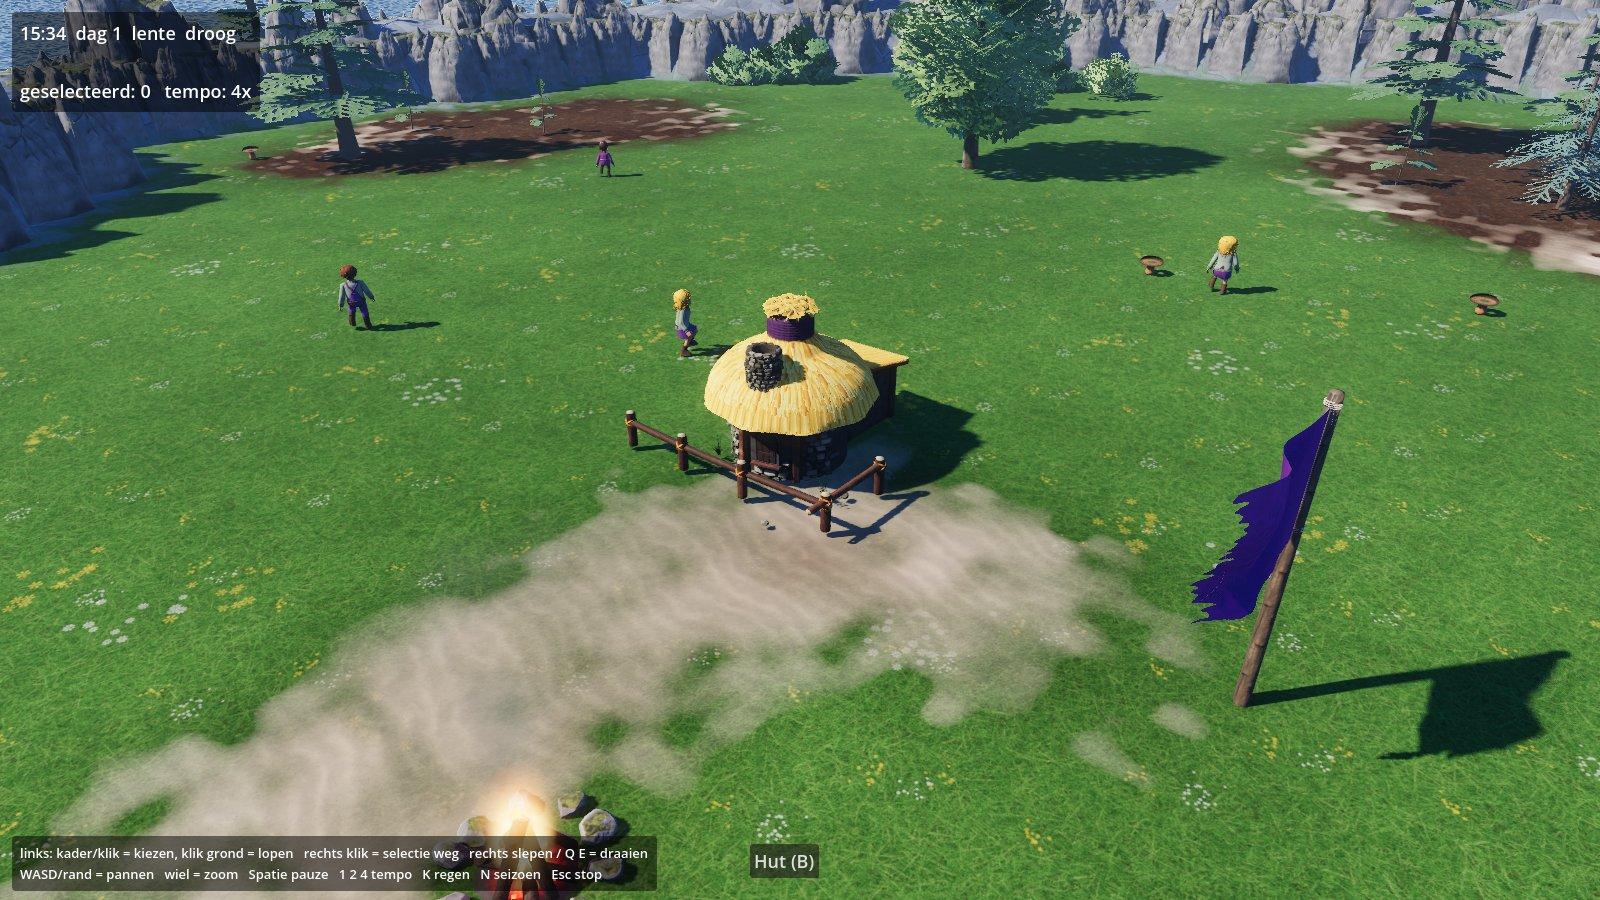
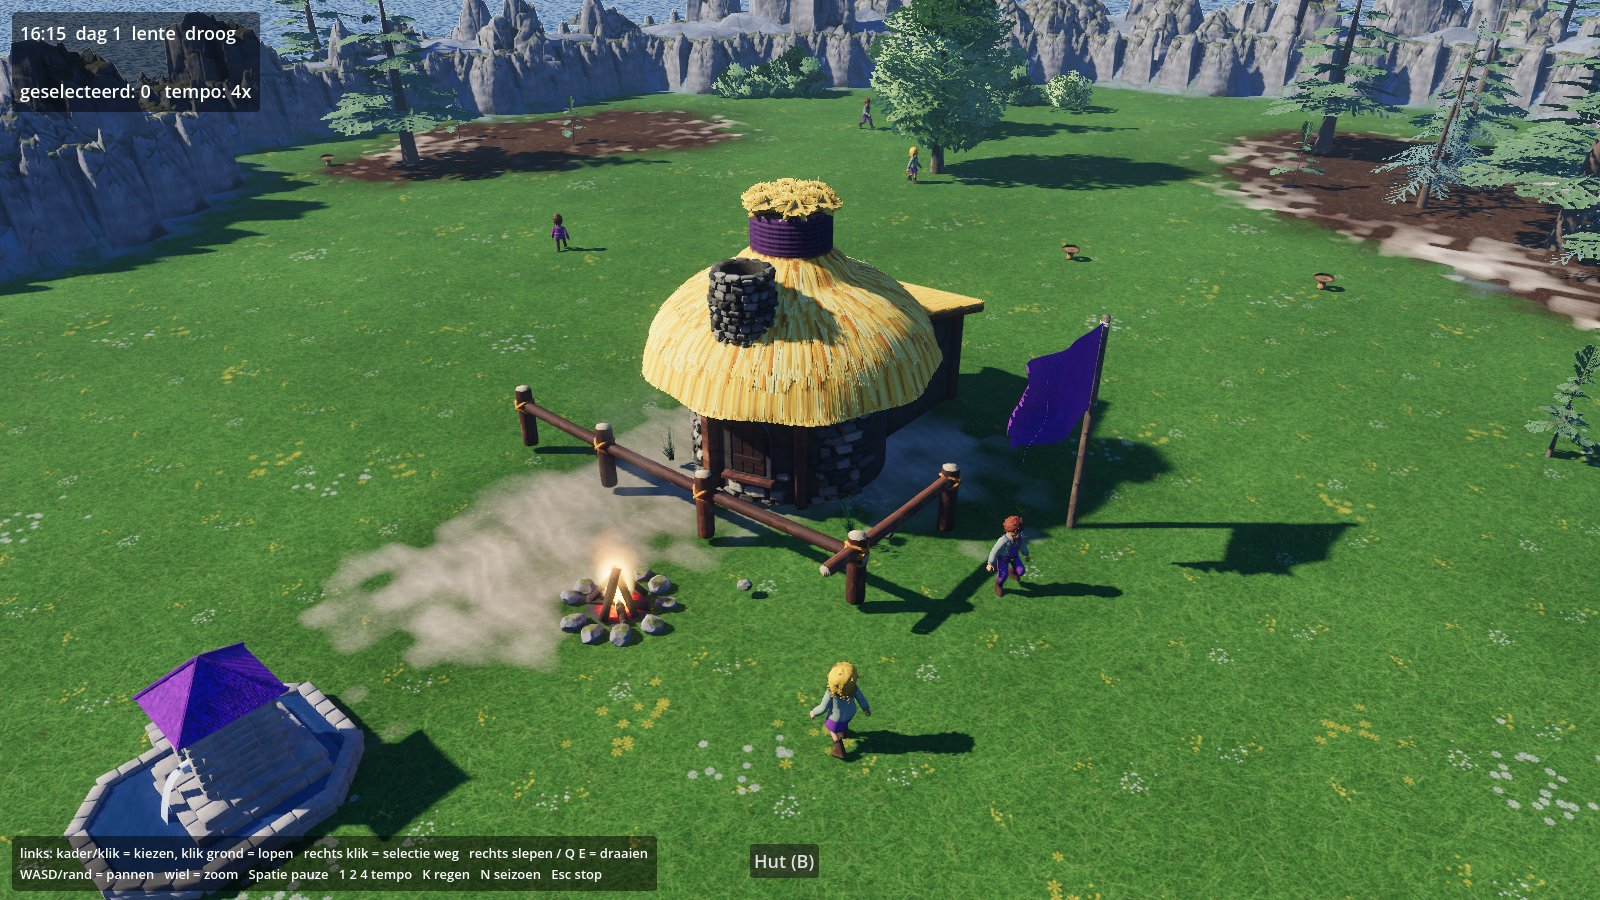
Beasts & Bumpkins-remake: hut geschaald op de voordeur (1,15x volwassene), voetafdruk 4x4
Claude-Session: https://claude.ai/code/session_0151pWCWHCzH6TWJgc2h9cMZ

diff --git a/TODO.md b/TODO.md
@@ -7,7 +7,7 @@ want die kunnen alleen op een telefoon of emulator opgenomen worden.
 
 Beasts & Bumpkins-remake (`docs/beasts-bumpkins-remake/`, stand in de README daar; originele data lokaal in `lokaal/`, niet in git):
 
-1. **Spellogica missie 1** in `spel/sim/`: economie, werk, bouwen, koe-generator (object 171), winnen bij 6 dorpelingen + 4 koeien, verliezen onder 2 — naar `missies.md` en `gameplay.md` §7. Bouwen staat (2026-10-29, `view/bouwmenu.gd` + `Plan` in `sim/`): menu/ghost, selectie + klik op een plan = bouwbevel, 60 werker-seconden, hamerlus, kist groeit in 4 standen en wordt bruin, voetafdruk blokkeert. Nog open: **houtstapel/steenhoop (modellen bestaan) bij de bouwplaats zetten, plus een zaagclip naast de hamerclip voor de bouwer** (besluit 2026-10-29, nostalgie; concept/modellen zijn er al, alleen de clip en de plaatsing ontbreken; eerst concept voor de hut in 4 standen, zie punt 3). Sinds 2026-10-29 avond: houtstapel/steenhoop staan naast het plan en slinken, klaar = de hut-glb (`--scenario=bouw`). Nog open: **zaagclip naast de hamerclip** (Blender, `bumpkin_basis.py`-acties) en de hut is klein (2x2 incl. hek; voetafdruk of schaal kiezen). Niet door mij gespeeld, alleen headless/frames.
+1. **Spellogica missie 1** in `spel/sim/`: economie, werk, bouwen, koe-generator (object 171), winnen bij 6 dorpelingen + 4 koeien, verliezen onder 2 — naar `missies.md` en `gameplay.md` §7. Bouwen staat (2026-10-29, `view/bouwmenu.gd` + `Plan` in `sim/`): menu/ghost, selectie + klik op een plan = bouwbevel, 60 werker-seconden, hamerlus, kist groeit in 4 standen en wordt bruin, voetafdruk blokkeert. Nog open: **houtstapel/steenhoop (modellen bestaan) bij de bouwplaats zetten, plus een zaagclip naast de hamerclip voor de bouwer** (besluit 2026-10-29, nostalgie; concept/modellen zijn er al, alleen de clip en de plaatsing ontbreken; eerst concept voor de hut in 4 standen, zie punt 3). Sinds 2026-10-29 avond: houtstapel/steenhoop staan naast het plan en slinken, klaar = de hut-glb (`--scenario=bouw`). Nog open: **zaagclip naast de hamerclip** (Blender, `bumpkin_basis.py`-acties) (hut sinds 2026-10-29 op deurmaat: 4x4 tegels). Niet door mij gespeeld, alleen headless/frames.
 2. **Modellen in het spel**: de zes personages staan erin (2026-10-29, `Bumpkin.glb_voor`; sex 13 = jongen, 14 = meisje aangenomen). Nog: loods/molen/melkerij/kippenhok (`modellen/gebouwen/`, wachten op bouwsoorten), koe met `koe_vacht.gdshader`. Eerst het rieten dak van melkerij en kippenhok opnieuw bakken (dakschil niet als bakbron; nu bruin met strepen).
 3. **Conceptronde 3 afmaken** (Chrome eerst herstarten): voetsoldatengilde staat in `lokaal/concept/` (gebruiker moet hem nog beoordelen), dan boogschuttersgilde, stadhuis, brouwerij, draagprops. **Bouwplaats: geen nieuw concept voor stapels, gereedschap of bouwer**: die bestaan al (ronde 2: `dorpsprops` = kampvuur/houtstapel/steenhoop, `bouwgereedschap` = zaag + pikhouweel, ronde 1: `bouwer`; modellen `modellen/natuur/houtstapel.glb`, `steenhoop.glb`). Alleen de **hut in 4 bouwstanden** heeft nog geen concept. Bakkerij = molen, bouwersgilde = gereedschapsloods.
 

diff --git a/docs/beasts-bumpkins-remake/spel/README.md b/docs/beasts-bumpkins-remake/spel/README.md
@@ -62,5 +62,5 @@ texturensets (Texture2DArray, 2,8 m per herhaling) uit de hoekgewichten van `Ter
 `TerreinView.zet_sneeuwlaag()` (winter), aangeroepen vanuit `WereldView.werk_seizoen()`.
 Scenario's voor frames: overzicht, dorp, selectie, pad, loop, vlag, bos, rots, koe, bouw (hut naast het kampvuur, 4x). De oude blokjes-placeholders in `props.gd` zijn alleen nog terugval als een glb ontbreekt.
 Uiterlijk per dorpeling: `Bumpkin.glb_voor(geslacht, leeftijd)` kiest een van de zes glb's (man, vrouw, jongen, meisje, oudere man/vrouw; kinderen zijn al 1,11 m in de glb). `sex` 13 = jongen, 14 = meisje is een aanname (niet geverifieerd). Ontbreekt een glb: de man (kind op 0,81x).
-Bouwplaats: houtstapel en steenhoop naast het plan slinken tot 35 % met de voortgang; klaar = `peasant_hut_rt.glb`, geschaald naar de 2x2-voetafdruk (incl. hek, dus klein). Die glb (25 MB) staat niet in git: `blender -b -P ../modellen/peasant_hut_realtime.py`, anders blijft het een bruine kist.
+Bouwplaats: houtstapel en steenhoop naast het plan slinken tot 35 % met de voortgang; klaar = `peasant_hut_rt.glb`, geschaald op de voordeur: 1,15x de langste volwassene (1,37 m) = 1,58 m, dat is de glb op ware grootte; voetafdruk dus 4x4 tegels (7,6 x 7,1 m incl. hek). Die glb (25 MB) staat niet in git: `blender -b -P ../modellen/peasant_hut_realtime.py`, anders blijft het een bruine kist.
 Hoogte (rotsboog, strand) is alleen weergave; de sim is plat.
